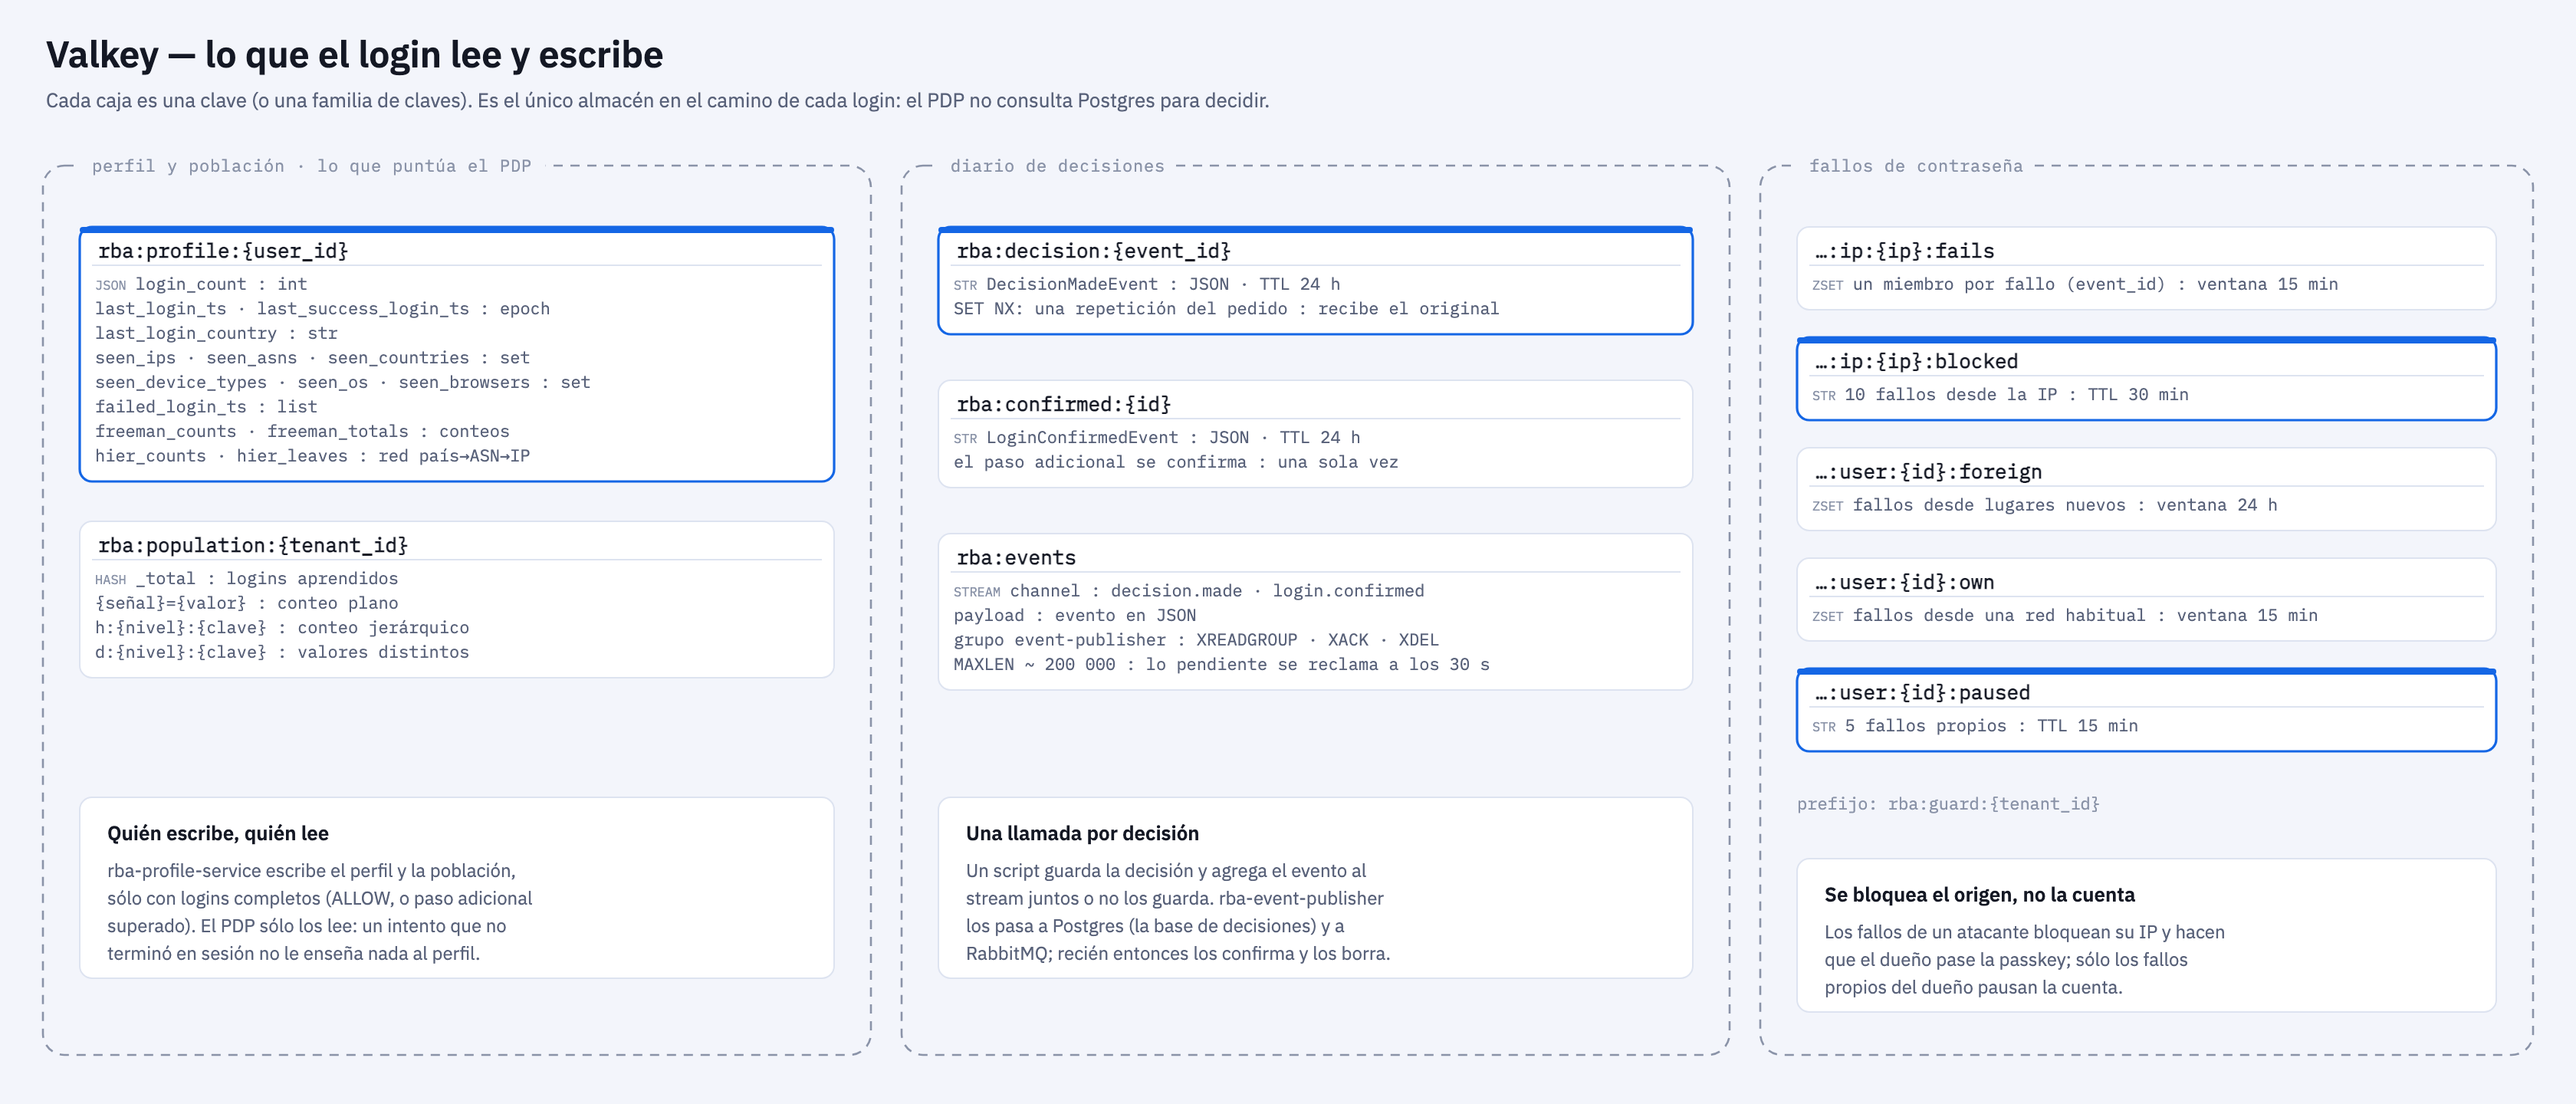
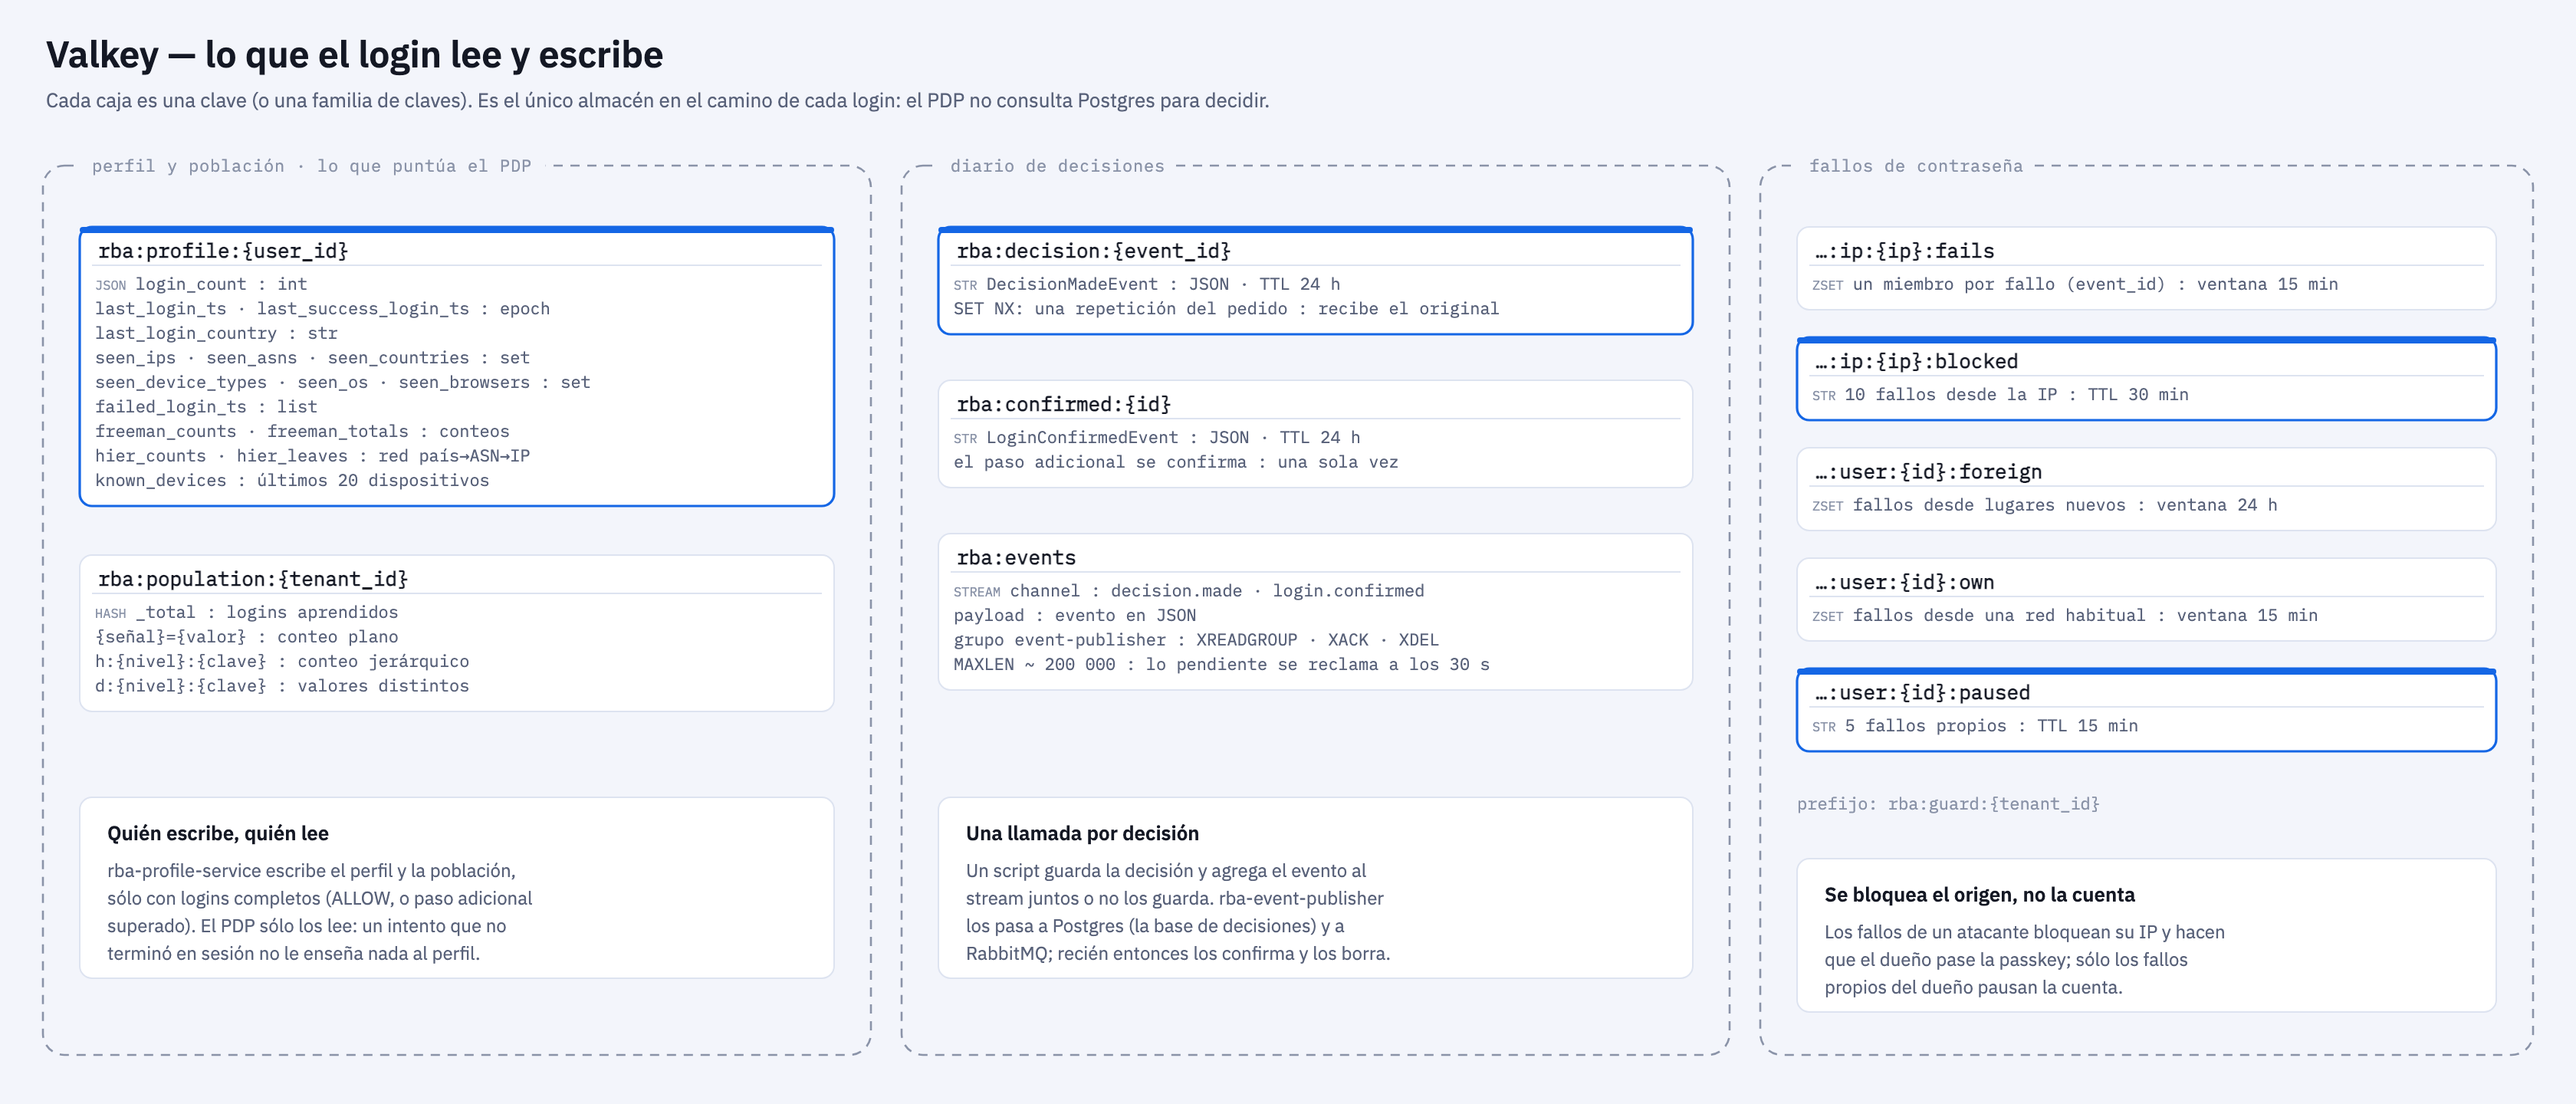
docs: ADR-0047 stable device identifier, informe note 21, devlog, Valkey figure

Changed region(s): [[0.0312, 0.4062, 0.1875, 0.625]]

diff --git a/decisions/0047-stable-device-identifier.md b/decisions/0047-stable-device-identifier.md
@@ -1,0 +1,49 @@
+# 47. A stable device identifier, scored as a designed term
+
+- Status: Accepted
+- Date: 2026-11-03
+- Related: RF-02, [ADR-0042](0042-learn-from-completed-logins-and-deployment-population.md)
+  (learn only completed logins), [ADR-0043](0043-hybrid-freeman.md) (device class
+  in Freeman), [ADR-0045](0045-block-the-source-not-the-account.md) (owner vs.
+  attacker failures).
+
+## Context
+
+"Device" meant the class read from the browser: desktop, macOS, Chrome. Every
+Mac with Chrome looked the same, so the device was the model's weakest signal
+and the owner-vs-attacker split of ADR-0045 rested on the network alone. RF-02
+asks for the device itself. The training data has no device ids, so a device
+term cannot be learned or validated offline.
+
+## Decision
+
+- **Cookie.** The IdP sets `rokusec_device` on its own origin at every login:
+  32 random bytes, `HttpOnly`, `SameSite=Lax`, `Secure` in the cloud, 400 days,
+  renewed on use. It never leaves the browser and the IdP.
+- **What others see.** The PDP gets `device_id = sha256(tenant_id ":" cookie)`,
+  32 hex characters (contracts 0.20.0, `RiskEvaluateRequest.device_id`,
+  `LoginEventSnapshot.device_id`). One browser is a different device to each
+  tenant, and the stored id cannot be replayed as the cookie.
+- **Learning.** The profile keeps the last 20 devices a user *completed* a
+  login on (`ProfileState.known_devices`). A failed login, or a step-up not
+  passed, teaches no device: an attacker with only the password cannot make
+  their browser known.
+- **Scoring.** Not a Freeman likelihood: a known device adds a fixed
+  −ln 10 ≈ −2.30 to the log-risk (`KNOWN_DEVICE_LLR`), shown as its own reason.
+  An unknown or missing device adds nothing (cookies are cleared and devices
+  replaced); a new device for a user who has known ones is an informational
+  reason (`device_new`). Rules still only raise the action, so impossible
+  travel, hosting networks and the guard escalate as before.
+- **Failures (ADR-0045).** A wrong password on a known device counts as the
+  owner's own, as one from a familiar network does.
+
+## Consequences
+
+- "Known device" now means this laptop, not any Mac. The owner on their own
+  laptop from a new network scores lower; an attacker never benefits.
+- The term's size is a design choice, not a measured one. It is a setting, and
+  the e2e checks the behaviour (Martín's usual login carries it).
+- Someone who steals the cookie *and* the password looks like the owner's
+  device. Then the network signals and the rules still apply.
+- The cookie is a security identifier, strictly needed for the service;
+  informe note 21 covers the privacy wording.

diff --git a/informe_updates/21-identificador-de-dispositivo.md b/informe_updates/21-identificador-de-dispositivo.md
@@ -1,0 +1,28 @@
+# Identificador estable de dispositivo (RF-02, ADR-0047; 2026-11-03)
+
+- **Qué cambió:** el IdP guarda en el navegador una cookie aleatoria de larga
+  duración (`rokusec_device`, HttpOnly). El motor recibe sólo un resumen de esa
+  cookie salado con la organización, así que un navegador es un dispositivo
+  distinto para cada organización. El perfil recuerda los últimos 20
+  dispositivos en los que el usuario completó un inicio.
+- **Cómo pesa:** un dispositivo conocido baja el riesgo en un término fijo
+  (−ln 10 ≈ −2,30 en log-riesgo: "diez veces más probable que sea el dueño").
+  Uno desconocido no suma nada (las cookies se borran y los equipos cambian).
+  Las reglas siguen pudiendo sólo subir la acción. Un atacante con la
+  contraseña nunca tiene la cookie, y su navegador no se aprende porque no
+  completa el inicio.
+- **Capítulo 3, señales / RF-02:** el 24/10 se cambió la redacción a "clase de
+  dispositivo". Ahora hay las dos cosas: la clase (tipo, sistema, navegador,
+  dentro de Freeman) y el dispositivo concreto (término propio, fuera del
+  modelo entrenado). RF-02 puede darse por cumplido.
+- **Por qué no es parte de Freeman:** el conjunto de datos no tiene
+  identificadores de dispositivo; el término es de diseño y se verifica en la
+  prueba de punta a punta (Martín, en su navegador habitual, lo lleva).
+- **ADR-0045:** una contraseña incorrecta desde un dispositivo conocido cuenta
+  como del dueño (pausa), igual que desde una red habitual.
+- **Privacidad (Ley 25.326):** es una cookie de seguridad, necesaria para el
+  servicio; no identifica a la persona fuera de la organización y no se
+  comparte. Una línea en la sección de privacidad alcanza.
+- **Consola:** Eventos muestra "Este dispositivo: Habitual / Nuevo" en el
+  detalle de cada inicio.
+- **Trazabilidad (Cap. 5):** RF-02 suma la prueba unitaria y la escena 2 del e2e.

diff --git a/devlog.md b/devlog.md
@@ -4,7 +4,18 @@ Reverse-chronological. Newest first. Each entry: what we did, why, and findings.
 
 ---
 
-## 2026-11-03 (latest) — AWS e2e 13/13 with today's fixes
+## 2026-11-03 (latest) — stable device identifier (RF-02, ADR-0047)
+
+"Device" was the browser's class, so every Mac with Chrome looked alike. The
+IdP now sets a long-lived random cookie and sends the PDP a per-tenant hash of
+it (contracts 0.20.0). The profile keeps the last 20 devices with a completed
+login; a known one adds −ln 10 to the log-risk as its own reason, an unknown
+one adds nothing. A wrong password on a known device counts as the owner's
+(ADR-0045). Console: "Este dispositivo" in the event detail. The e2e now keeps
+the device cookie between logins, as a browser does, and checks Martín's usual
+login carries the term. Tests: features 31, PDP 58, profile 10, IdP 252.
+
+## 2026-11-03 — AWS e2e 13/13 with today's fixes
 
 `make aws-up` (images 796e1bedb19a) and the full e2e with the load scene:
 13 passed in 7 min. On the cluster: Valkey holds `rba:population:roku-bank`

diff --git a/decisions/README.md b/decisions/README.md
@@ -58,6 +58,7 @@ we chose this shape*. Numbering is chronological. Next unused number: **0038**.
 | [0044](0044-decision-path-in-valkey.md) | Decision path touches Valkey only: journal key + stream; publisher fills the Postgres read model; policies refreshed in the background | Accepted |
 | [0045](0045-block-the-source-not-the-account.md) | Repeated wrong passwords: block the source IP, step the account up after an attack, pause it only for the owner's own failures | Accepted |
 | [0046](0046-population-per-tenant.md) | Each tenant has its own login population (no learning across organizations) | Accepted |
+| [0047](0047-stable-device-identifier.md) | A stable device identifier (IdP cookie, per-tenant hash), scored as a designed known-device term | Accepted |
 
 ## Template
 

diff --git a/informe_updates/README.md b/informe_updates/README.md
@@ -27,3 +27,4 @@ applies it by hand. Delete a note (or tick it) once it is applied.
 | [18-token-en-auth-codes.md](18-token-en-auth-codes.md) | RF-14, esquema de sesión, figura 3.17: el token ya no se guarda en claro (C2) | open |
 | [19-poblacion-por-organizacion.md](19-poblacion-por-organizacion.md) | aprendizaje en línea, RF-20, entrevistas, trabajo futuro: población por organización (C3) | open |
 | [20-aviso-de-inicio-inusual.md](20-aviso-de-inicio-inusual.md) | RF-17 cumplido, tabla de trazabilidad, respuestas sin señales | open |
+| [21-identificador-de-dispositivo.md](21-identificador-de-dispositivo.md) | RF-02 cumplido: dispositivo concreto además de la clase, privacidad, consola | open |
